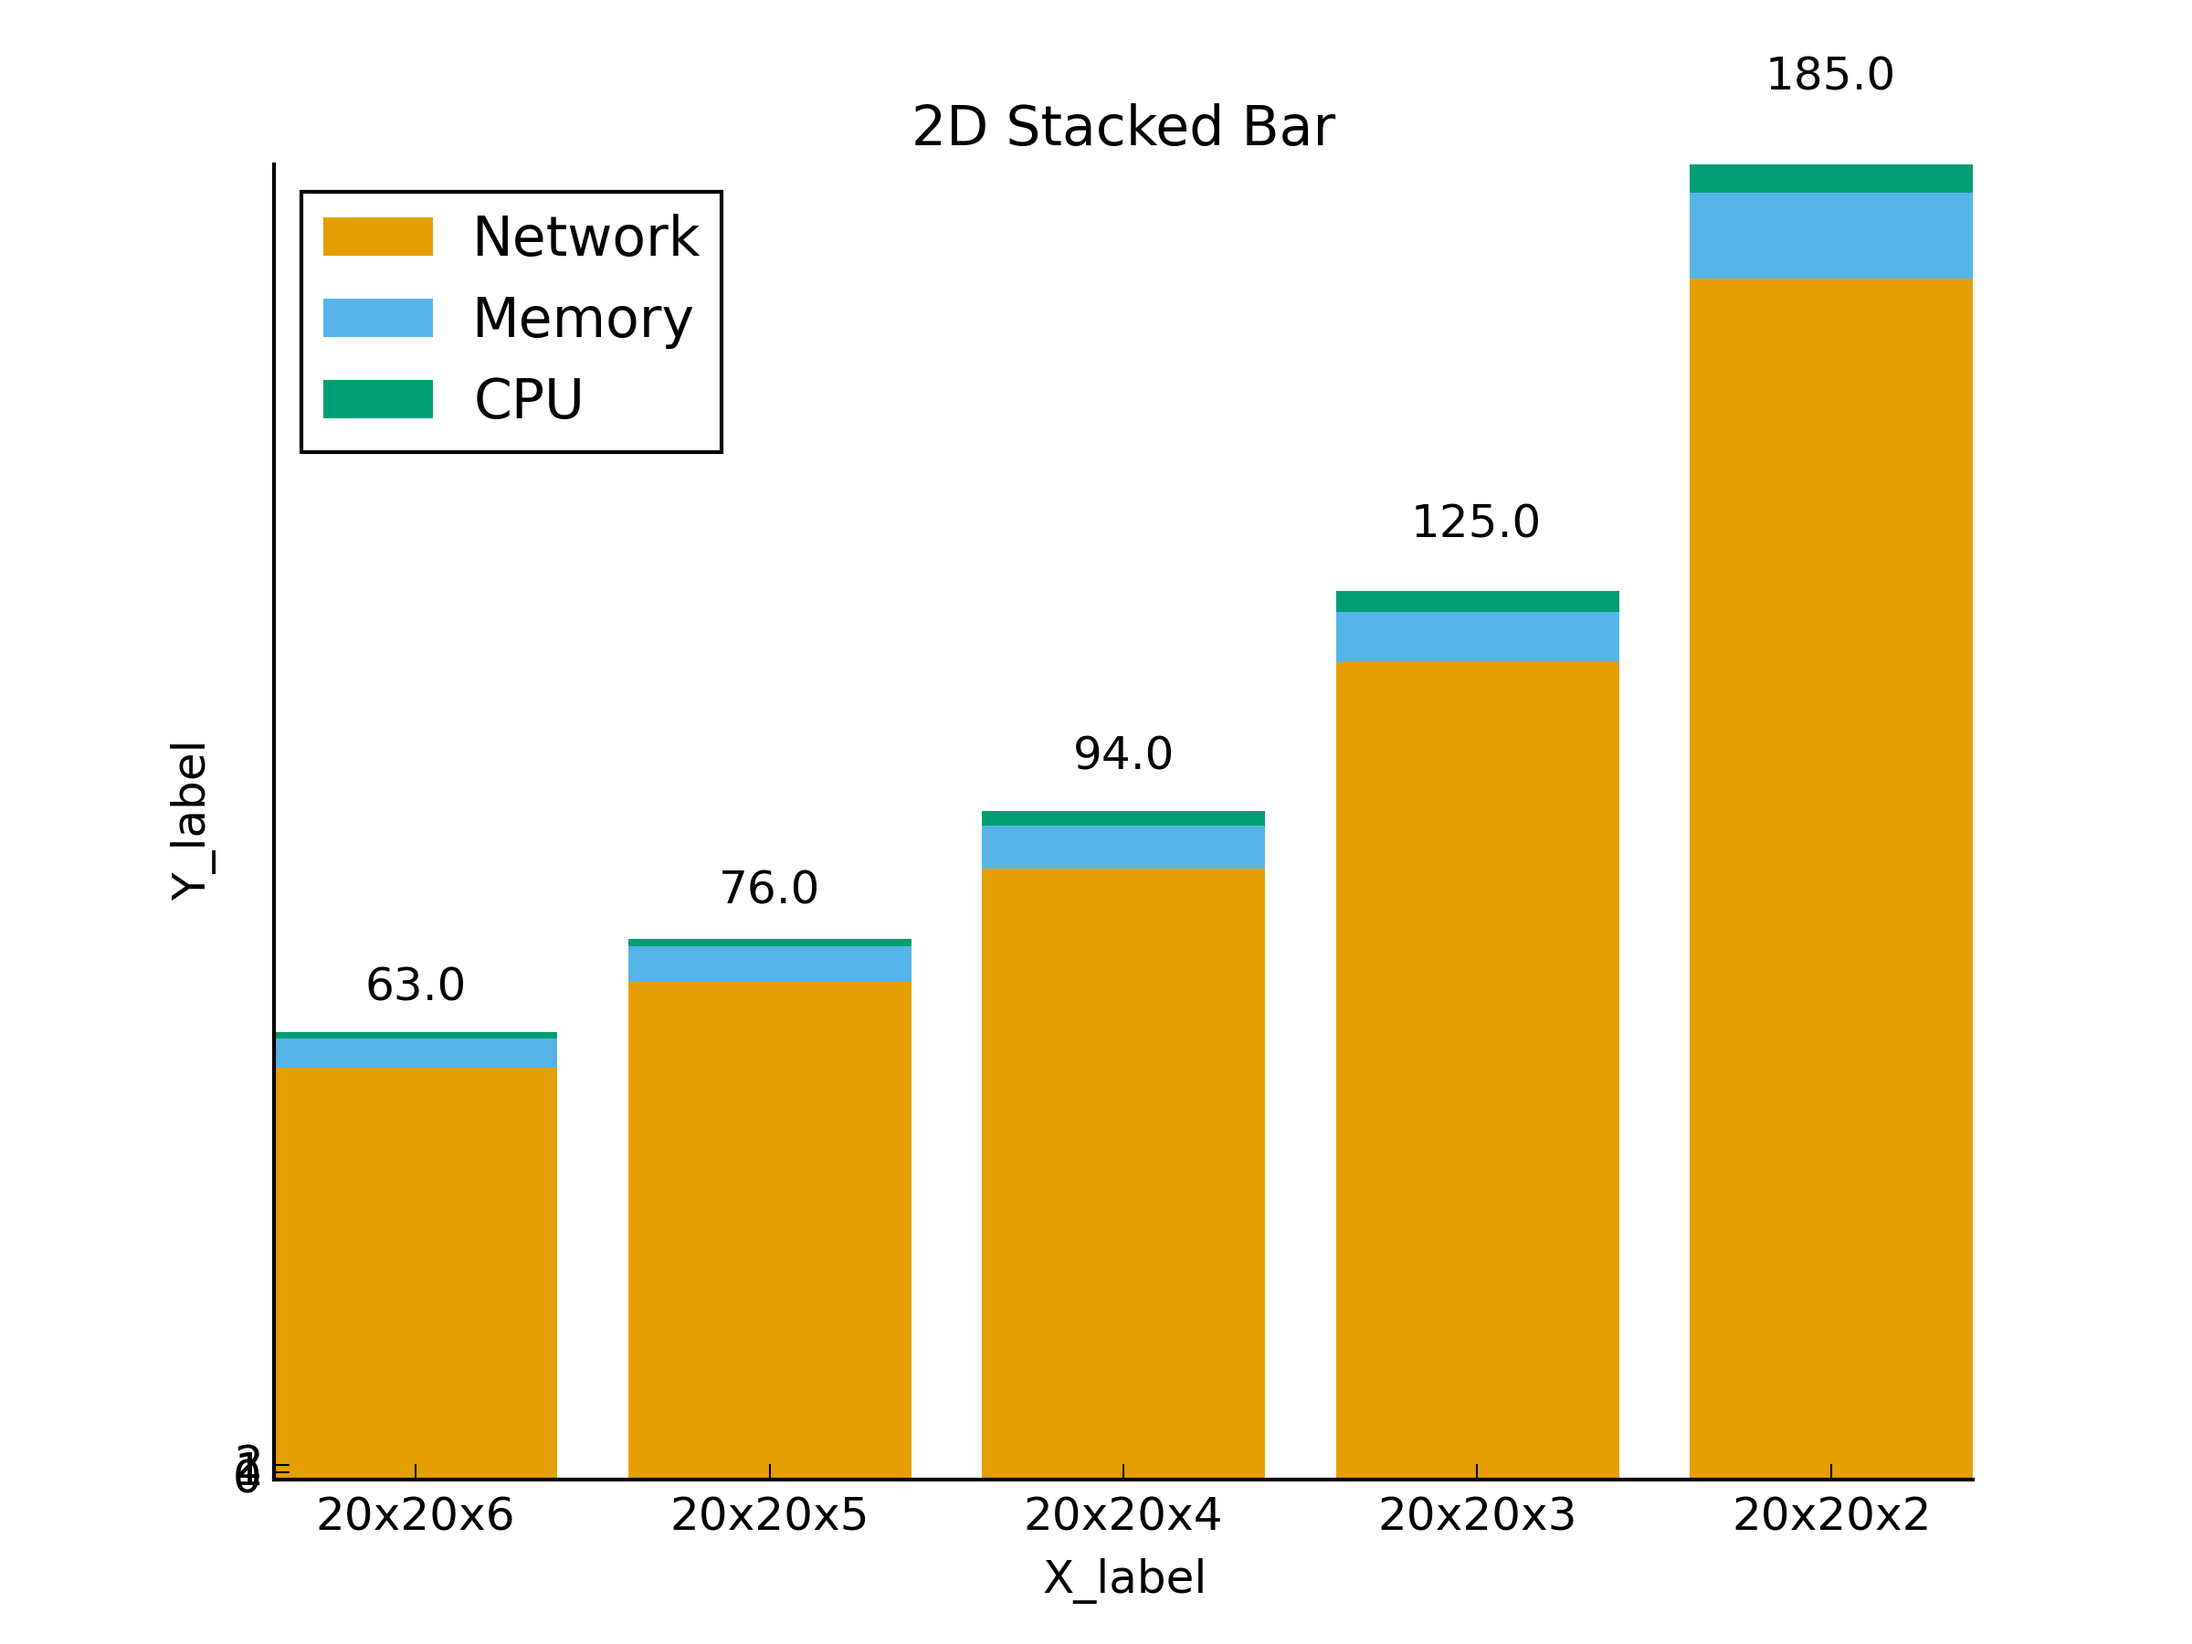
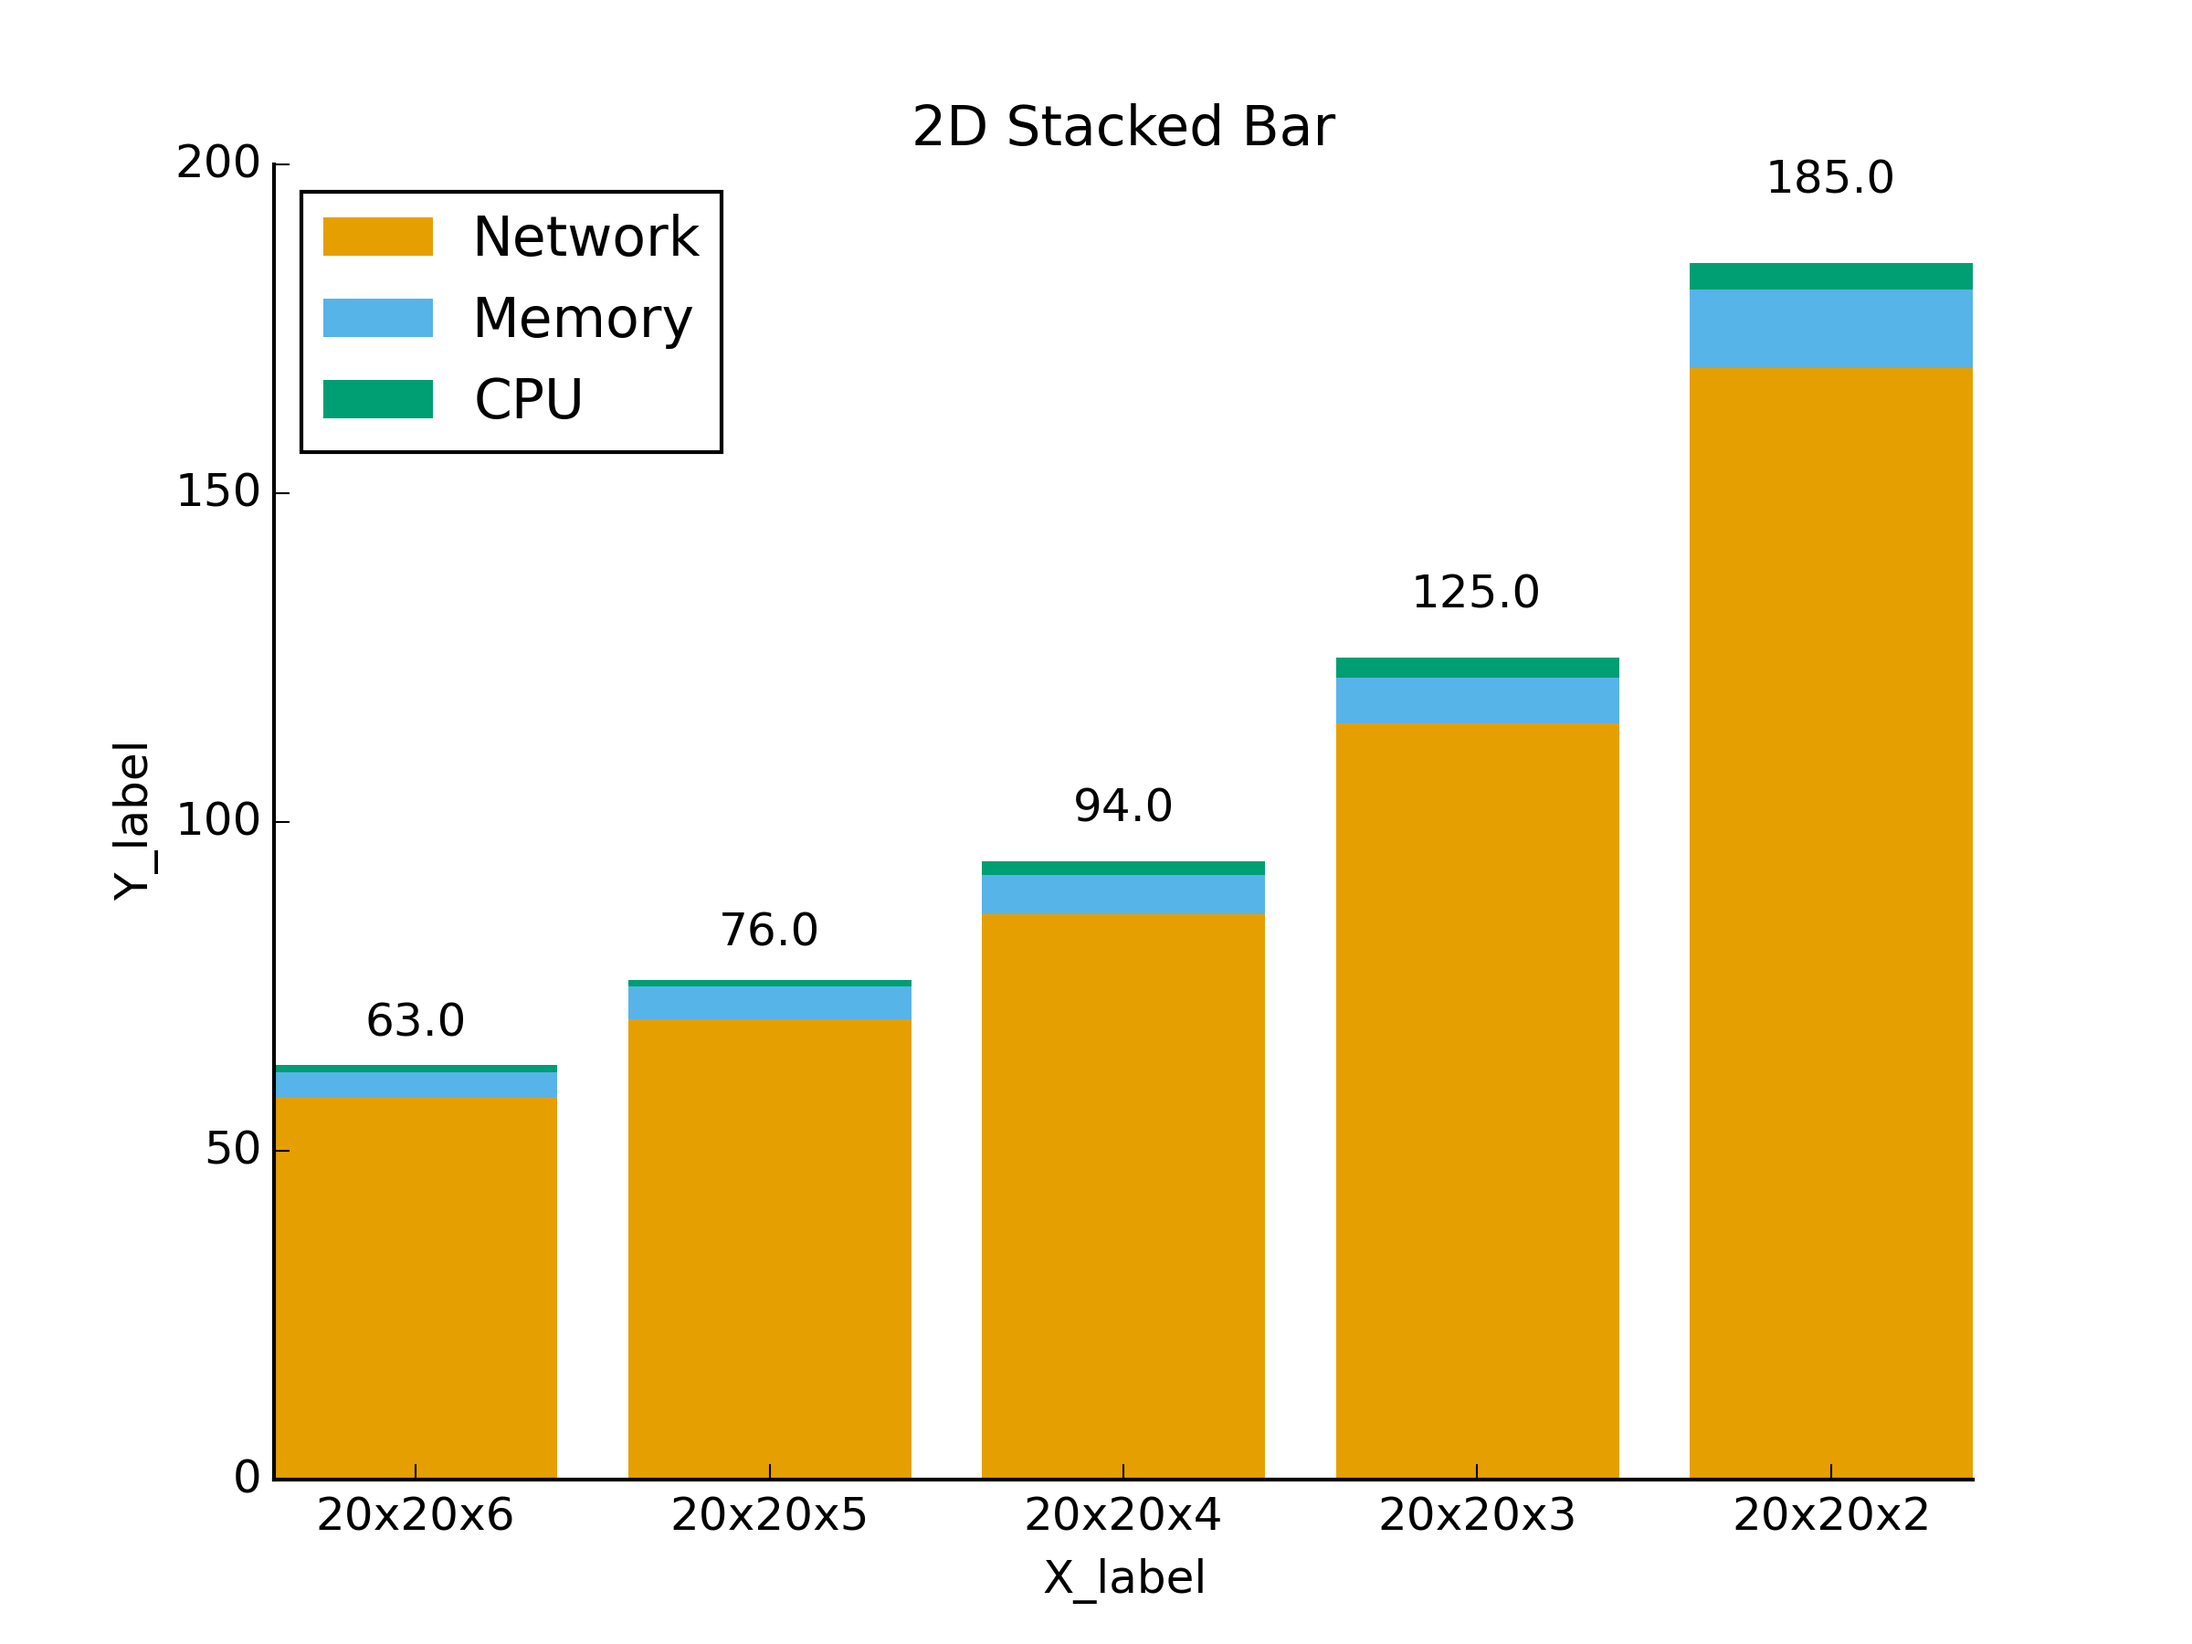
fix 3d data for 2d graph problem... by adding another var in base class

diff --git a/polly.py b/polly.py
@@ -64,6 +64,7 @@ class Polly(object):
         }
         self.set_params(**kwargs)
         self.plot_type = "Default"
+        self._dimension = 2
         self.output_dpi = 300
         self.output_dir = "examples/"
         self.output_name = get_out_name_from_title(self.params["title"])
@@ -194,14 +195,17 @@ class Polly(object):
             self.ax.set_yticklabels(self.params["yticks"], va="center")
         else:
             logging.info("user didn't input yticks, creating from data...")
-            data = self.params["data"]
-            dim = self.get_data_dimension(data)
-            if dim == 2:
-                ticks = range(len(data))
-                ticklabels = map(str, ticks)
-                self.ax.set_yticks(ticks)
-                self.ax.set_yticklabels(ticklabels, va="center")
-            elif dim == 1:  # matplotlib will figure it out for you...
+            if self._dimension == 3:
+                data = self.params["data"]
+                dim = self.get_data_dimension(data)
+                if dim == 2:
+                    ticks = range(len(data))
+                    ticklabels = map(str, ticks)
+                    self.ax.set_yticks(ticks)
+                    self.ax.set_yticklabels(ticklabels, va="center")
+                else:  # passed a 1d data to a 3d plot? no!
+                    logging.error("Please don't pass 1D data to 3D graph..")
+            elif self._dimension == 2:  # matplotlib will figure it out for you...
                 pass
             else:
                 logging.error("Input data dimension not supported!")
@@ -286,11 +290,12 @@ class Polly3D(Polly):
         for key, value in default_3d_params.iteritems():
             if key not in self.params:
                 self.params.update({key: value})
-        # this looks dump to me, is there a better way?
+        # close figure generate by 2d, this looks dump to me, is there a better way?
         self.fig.clear()
         pyplot.close(self.fig)
         self.fig = pyplot.figure()
         self.ax = self.fig.add_subplot(111, projection='3d')
+        self._dimension = 3
 
     def save_fig(self, **kwargs):
         """
